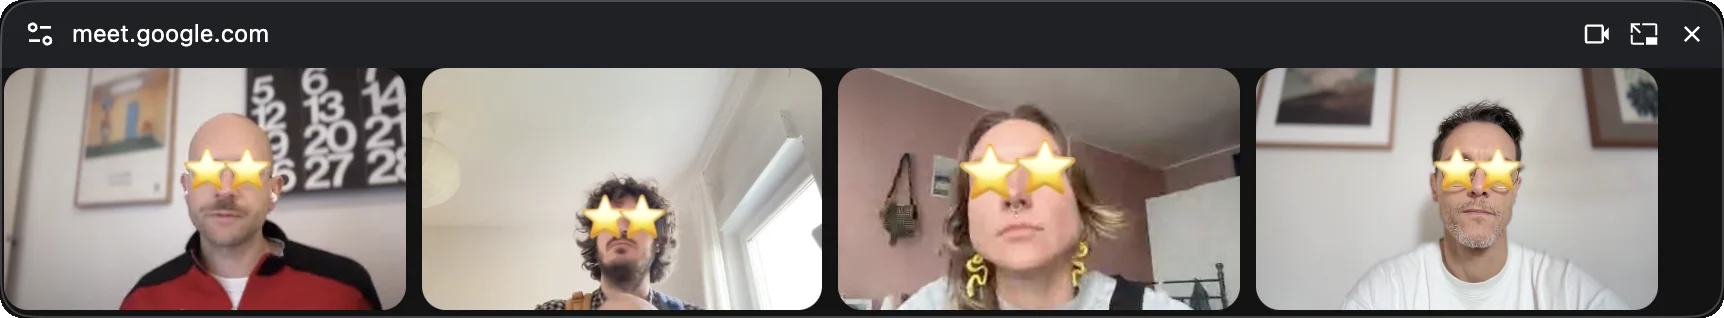
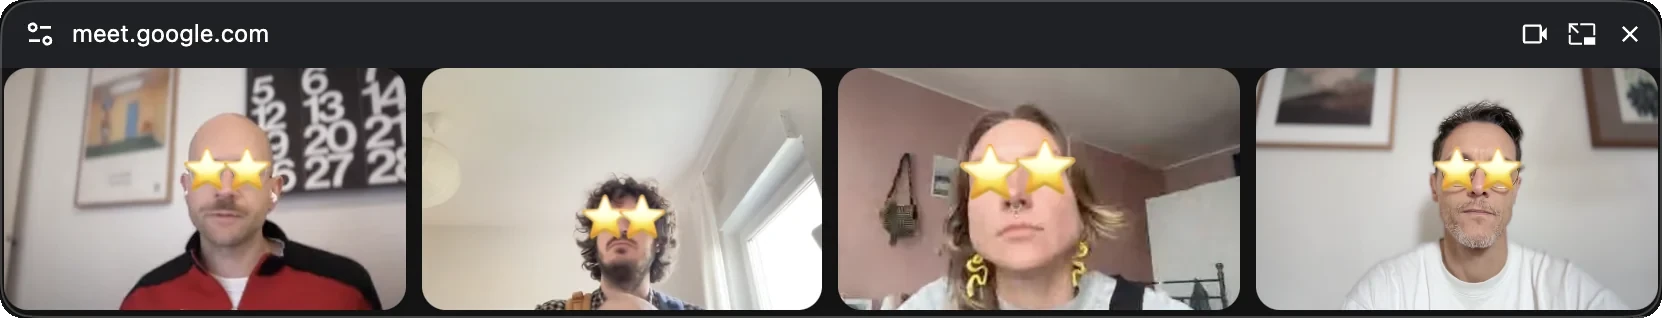
Close the right-hand gap in the site's after and hover screenshots

diff --git a/index.html b/index.html
@@ -132,7 +132,7 @@
   }
   .shot img { display: block; width: 100%; height: auto; border-radius: 12px; }
   /* The stripped window is narrower than Meet's default, so keep both at screenshot scale */
-  .shot.clean { width: min(40.4rem, calc((100vw - 3rem) * .962)); }
+  .shot.clean { width: min(38.95rem, calc((100vw - 3rem) * .9275)); }
   .shot .img-after, .shot .img-hover { display: none; }
   .shot.clean .img-before { display: none; }
   .shot.clean .img-after { display: block; }
@@ -217,8 +217,8 @@
 
     <figure class="shot" id="shot" tabindex="0">
       <img class="img-before" src="assets/before.webp?v=2" width="1792" height="526" alt="Meet's default floating window: four faces with names, a Gemini button, a row of reactions, and a control bar.">
-      <img class="img-after" src="assets/after.webp" width="1724" height="318" alt="The same window with the extension: four faces in a slim strip, nothing else.">
-      <img class="img-hover" src="assets/hover.webp" width="1722" height="318" alt="With the pointer over the window, Meet's controls appear over the faces.">
+      <img class="img-after" src="assets/after.webp?v=2" width="1662" height="318" alt="The same window with the extension: four faces in a slim strip, nothing else.">
+      <img class="img-hover" src="assets/hover.webp?v=2" width="1660" height="318" alt="With the pointer over the window, Meet's controls appear over the faces.">
     </figure>
 
   </div>
